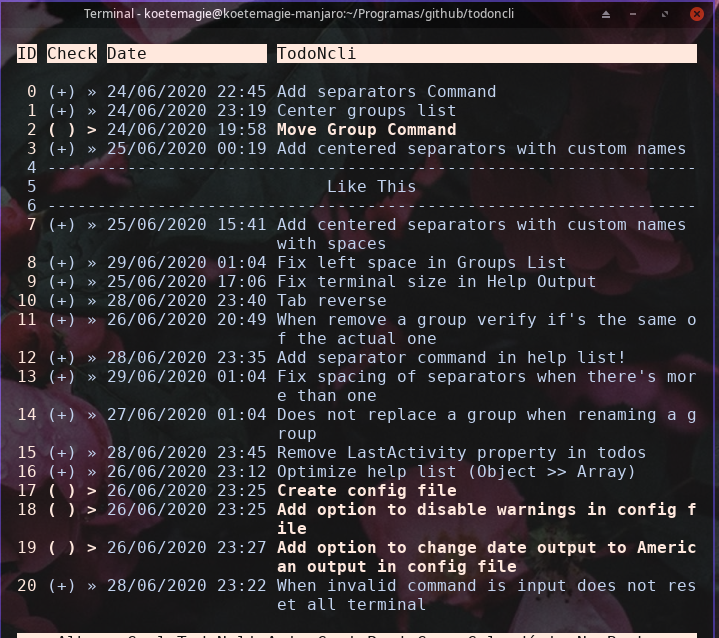
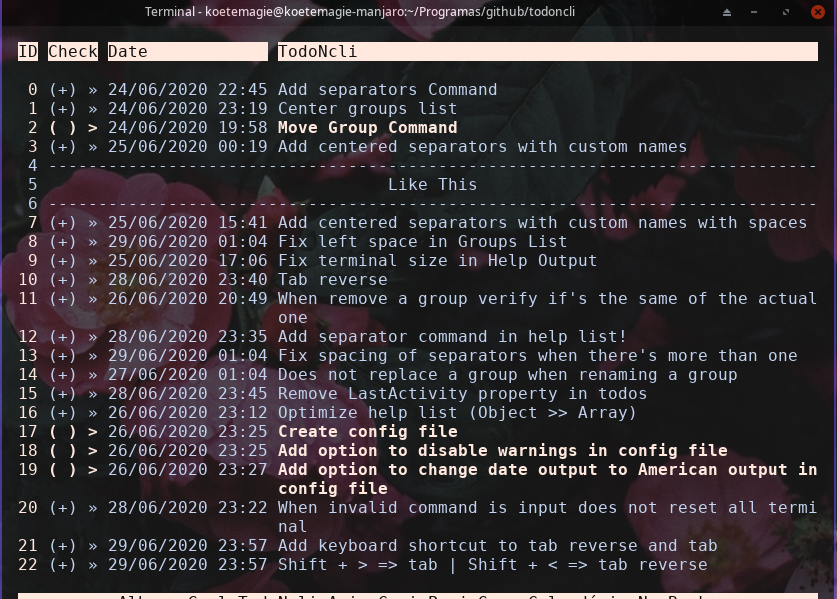
Fixed unnecesary restart

diff --git a/todoncli.js b/todoncli.js
@@ -3,12 +3,12 @@ const fs = require('fs');
 const sleep = require('util').promisify(setTimeout);
 
 const TODOS_PATH = 'todos.json';
-// TODOS     = file of todos
-// GROUPS    = array with the name of all groups
-// CUR_NAME  = <current id> of the group in <groups>
-// CUR_GROUP = all the current todos of the current group
-let TODOS, GROUPS, CUR_GROUP, CUR_NAME;
-
+// TODOS      = file of todos
+// GROUPS     = array with the name of all groups
+// CUR_NAME   = <current id> of the group in <groups>
+// CUR_GROUP  = all the current todos of the current group
+// CUR_COLUMS = current colums of terminal, to change it if update
+let TODOS, GROUPS, CUR_GROUP, CUR_NAME, CUR_COLUMNS;
 
 // Colors method for colorize terminal output
 const colors = {
@@ -40,6 +40,7 @@ const todoncli = {
   // previous: save
   start: function () {
     console.clear();
+    CUR_COLUMNS = process.stdout.columns;
     TODOS, GROUPS, CUR_GROUP, CUR_NAME = undefined;
     this.load();
   },
@@ -406,10 +407,13 @@ const todoncli = {
       colorsStringLength += INVERSE_LENGTH;
   
     let groupsString = newGroups.join(colors.inverse(' '));
-  
+
     // put groups in center
-    while (groupsString.length - colorsStringLength < COLUMNS)
+    while (groupsString.length - colorsStringLength < COLUMNS - 1)
       groupsString = ` ${groupsString} `;
+
+    while (groupsString.length - colorsStringLength < COLUMNS)
+      groupsString += ' ';
   
     groupsString = groupsString.replace(/  +/g, s => colors.inverse(s));
   
@@ -504,6 +508,12 @@ const todoncli = {
     // groups
     this.groupsList();
   },
+  promptQuestion: function () {
+    rl.question(colors.white('>') + ' ', ANSWER => {
+      let [answer, ...args] = ANSWER.split(' ');
+      this.check(answer, args);
+    });
+  },
   ask: function (TYPE) {
     console.clear();
     // show
@@ -523,11 +533,7 @@ const todoncli = {
   
     // test timed todos to update their times
     itemsParse.updateTimeds();
-  
-    rl.question(colors.white('>') + ' ', ANSWER => {
-      let [answer, ...args] = ANSWER.split(' ');
-      this.check(answer, args);
-    });
+    this.promptQuestion();
   },
   // Get command and pass to function
   // previous: checkTask
@@ -536,7 +542,7 @@ const todoncli = {
   
     // make it always lowercase to be read
     answer = answer.toLowerCase();
-  
+
     switch (answer) {
   
       //
@@ -668,7 +674,35 @@ const todoncli = {
         process.exit();
         break;
   
-      default: TYPE = 0;
+      default:
+        TYPE = 0;
+
+        if (CUR_COLUMNS !== process.stdout.columns)
+          CUR_COLUMNS = process.stdout.columns;
+
+        else {
+          const LINES_LENGTH = (function () {
+            let LINE = '> ' + answer + args;
+  
+  
+            const patt = new RegExp(`.{${process.stdout.columns}}`, 'g');
+  
+            let arrLength = LINE.match(patt);
+  
+            if (arrLength === null)
+              return 1;
+  
+            else
+              return arrLength.length + 1;
+          })();
+  
+          process.stdout.moveCursor(0, LINES_LENGTH * -1);
+          readline.clearScreenDown(process.stdout, () => this.promptQuestion());
+
+          
+  
+          return;
+        }
     }
   
     if (TYPE === undefined)
@@ -681,6 +715,18 @@ const todoncli = {
 //
 // Group Functions
 //
+readline.emitKeypressEvents(process.stdin);
+// shortcut
+process.stdin.on('keypress', (ch, key) => {
+  // alt + > === tab
+  if (key.name === 'right' && key.shift === true)
+    todoncli.check('tab');
+  // alt + < === tabreverse
+  if (key.name === 'left' && key.shift === true) {
+    todoncli.check('tabreverse');
+  }
+      
+});
 
 const groups = {
   // previous updateGroups
@@ -1282,7 +1328,7 @@ const itemsParse = {
     else {
       const now = Date.now();
       let time = ((repeatTime + lastRepeated) - now) / 60000;
-      
+
       if (time > 60 && time < 1440)
         time = `-${this.roundIt(time / 60)}h`;    // Hours
       else if (time > 1440 && time < 10080)

diff --git a/README.md b/README.md
@@ -11,25 +11,20 @@ Implementation of a Todo List in Node.js. Manage your todos directly in the term
 
 - Install [node](https://nodejs.org/);
 - Download the latest version [here](https://github.com/Koetemagie/todoncli/releases/latest)!
+- Open it with app.vbs if you are in Windows or in terminal use `node .`.
 
-## Source Installation
+## TodoNcli Installation
 
-- Install [node](https://nodejs.org/);
 - Download this repository. Or use terminal with git: `git clone https://github.com/Passok11/todo-list-node-cli.git`;
 - Open the repository folder locally. Or use terminal: `cd todoncli`;
-- If you are using Windows, open **app.vbs**. Or in the terminal run todoncli using any of these commands: `node .`, `node index.js`, `npm start`.
+- If you are using Windows, open **app.vbs**. Or in the terminal run todoncli using any of these commands: `node .`, `node todoncli.js`;
+- You can make an alias in Linux to open it faster. Example: `echo 'alias nd="cd ~/TODONCLIFOLDER/ && node todoncli.js"'`.
 
 ### Windows:
 
-If you're using Windows 10/8x: 
-- **open the cmd** > **right click on the top tab** > **Properties** > **Terminal** > check **Disable Scroll-Forward**.
-- If you don't have that option on Terminal, update your Windows 10 to the last one. If you can't I recommend you: **Layout** > **Screen Buffer Size** > **Height** > **50**.
-Unfornately the last tip changes the Screen Buffer Size, so the help command won't show properly the documentation. Don't know how to resolve this bug. 
-Do the same thing with the **node terminal** if you open the app using **app.vbs**.
-
 If you're using Windows 7 or lower. I recommend you use another terminal, such as [cmder](http://cmder.net/). ~~Or just update to Windows 10 :3~~
 
-## ✨ Features v2.0
+## ✨ Features v3.0
 
 * Monochrome (Reasons: there's no reason at all to make the ready todos cyan)
 * See the time that left in minutes to repeat again the todo.
@@ -43,7 +38,7 @@ If you're using Windows 7 or lower. I recommend you use another terminal, such a
 * Now terminal works in any size.
 * Added tab reverse command.
 * Prettier terminal.
-
+* Now you can switch the groups easily with the shorcut: `SHIFT` + `Arrow
 
 ## 🖨 Command Cheat
 
